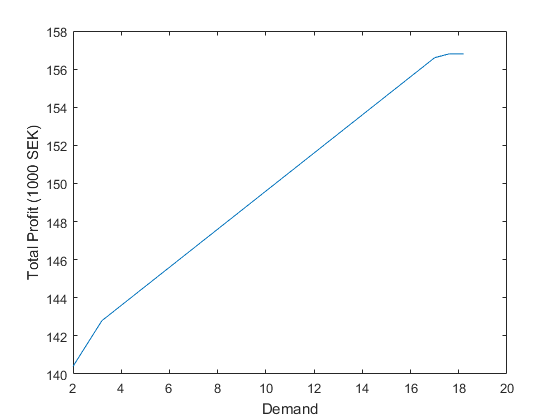
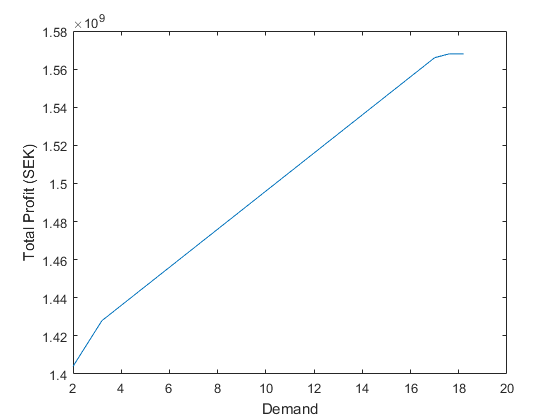
RestructuredCodeIntoSeparateFiles

diff --git a/Task1AllSubtasks.m b/Task1AllSubtasks.m
@@ -38,7 +38,7 @@ A = [2 0 0 0 0;
 %options = optimoptions('linprog', 'Algorithm', 'interior-point', 'Display', 'off');
 %options = optimoptions('linprog', 'Algorithm', 'dual-simplex', 'Display', 'iter');
 options = optimoptions('linprog', 'Algorithm', 'dual-simplex', 'Display', 'off');
-[x,fval,exitflag,output,lambda] = linprog(c', A, b, [], [], lb, [], [], options);
+[x,fval,exitflag,output,lambda_1b] = linprog(c', A, b, [], [], lb, [], [], options);
 x
 
 %--------------------------------
@@ -50,21 +50,24 @@ profit = -c*x
 
 profitArray = [profit];
 demandArray = [b(5)];
+shadowPriceArray = [20000];
  
  while true
     oldProfit = profit;
     
     b = b + b_incr;
     
-    [x,fval,exitflag,output,lambda] = linprog(c', A, b, [], [], lb, [], [], options);
+    [x,fval,exitflag,output,lambda_1d] = linprog(c', A, b, [], [], lb, [], [], options);
     profit = -c*x
     profitArray=[profitArray profit];
     demandArray=[demandArray b(5)];
+    shadowPriceArray=[shadowPriceArray lambda_1d.ineqlin(5)];
     if((profit-oldProfit) < 0.1), break, end
  end
-plot(demandArray, profitArray)
-ylabel('Total Profit (1000 SEK)')
+plot(demandArray, profitArray*1000*10000)
+ylabel('Total Profit (SEK)')
 xlabel('Demand')
+shadowPriceArray;
 
 %--------------------------------
 %1e------------------------------
@@ -78,7 +81,7 @@ b = [36;
      34;
      28]; %reset our b matrix, since we messed with that in 1d
   
-[x,fval,exitflag,output,lambda] = linprog(c', A, b, [], [], lb, [], [], options); %to reset our x values
+[x,fval,exitflag,output,lambda_1ea] = linprog(c', A, b, [], [], lb, [], [], options); %to reset our x values
 startC = c; %values to reset to for the beta loop
 startX = x; %values to reset to for the beta loop
 
@@ -92,7 +95,7 @@ beta = 4;
 while true
     c = c - [price_incr 0 0 0 0];
     alfa = alfa + price_incr;
-    [x,fval,exitflag,output,lambda] = linprog(c', A, b, [], [], lb, [], [], options);
+    [x,fval,exitflag,output,lambda_1ea] = linprog(c', A, b, [], [], lb, [], [], options);
     if(isequal(oldX, x) == false), break, end
     oldX = x;
 end
@@ -104,9 +107,9 @@ c = startC;
 while true
     c = c + [price_incr 0 0 0 0];
     beta = beta - price_incr;
-    [x,fval,exitflag,output,lambda] = linprog(c', A, b, [], [], lb, [], [], options);
+    [x,fval,exitflag,output,lambda_1eb] = linprog(c', A, b, [], [], lb, [], [], options);
     if(isequal(oldX, x) == false), break, end
-    %if(beta > 10), break, end %can be used to break loop when beta gets way too big
+    if(beta > 10), break, end %can be used to break otherwise infinite loop
     oldX = x;
 end
 beta %upper bound

diff --git a/Task2b.m b/Task2b.m
@@ -1,0 +1,55 @@
+clc
+clear all
+
+c = [-1;
+     -5];
+A = [2 -1;
+     -1 1;
+     1 4];
+ b = [4;
+      1;
+      12];
+ lb = [0;
+       0];
+ %options = optimoptions('intlinprog', 'Display', 'iter');
+ options = optimoptions('intlinprog', 'Display', 'off');
+ intcon = [1;
+           2];
+[x, fval, exitflag, output] = intlinprog(c', intcon, A, b, [], [], lb, [], options)
+
+z=(-c)'*x;
+
+%Just to test our manually calculated solutions to Task2b using Matlab code
+%as well
+options_l = optimoptions('linprog', 'Algorithm', 'dual-simplex', 'Display', 'off');
+[x_l,fval_l,exitflag_l,output_l,lambda_l] = linprog(c', A, b, [], [], lb, [], [], options_l);
+x_l_rounded = round(x_l);
+z_l=(-c).*x_l;
+
+x_l_collection = [];
+z_l_collection = [];
+for i = 1:4
+    if(i == 1)
+        x_l_rounded = [floor(x_l(1)), floor(x_l(2))];
+    elseif (i==2)
+        x_l_rounded = [ceil(x_l(1)), ceil(x_l(2))];
+    elseif (i==3)
+        x_l_rounded = [ceil(x_l(1)), floor(x_l(2))];
+    else
+        x_l_rounded = [floor(x_l(1)), ceil(x_l(2))];
+    end
+    xMulA = x_l_rounded .* A
+    xMulASummed = sum(xMulA, 2)
+    
+    satisfiesEquation = true;
+    for j = 1:3
+        if(xMulASummed(j) > b(j))
+            satisfiesEquation = false;
+        end
+    end
+    if(satisfiesEquation == true)
+        x_l_collection=[x_l_collection x_l_rounded];
+        z_l_collection=[z_l_collection ((-c(1))*x_l_rounded(1) + (-c(2))*x_l_rounded(2))];
+    end
+end
+%See x_l_collection and z_l_collection for seeing which answer we got

diff --git a/Task2AllSubtasks.m b/Task2AllSubtasks.m
@@ -1,0 +1,54 @@
+clc
+clear all
+
+c = [-1;
+     -5];
+A = [2 -1;
+     -1 1;
+     1 4];
+ b = [4;
+      1;
+      12];
+ lb = [0;
+       0];
+ %options = optimoptions('intlinprog', 'Display', 'iter');
+ options = optimoptions('intlinprog', 'Display', 'off');
+ intcon = [1;
+           2];
+[x, fval, exitflag, output] = intlinprog(c', intcon, A, b, [], [], lb, [], options)
+
+z=(-c)'*x;
+
+%2.b
+options_l = optimoptions('linprog', 'Algorithm', 'dual-simplex', 'Display', 'off');
+[x_l,fval_l,exitflag_l,output_l,lambda_l] = linprog(c', A, b, [], [], lb, [], [], options_l);
+x_l_rounded = round(x_l);
+z_l=(-c).*x_l;
+
+x_l_collection = [];
+z_l_collection = [];
+for i = 1:4
+    if(i == 1)
+        x_l_rounded = [floor(x_l(1)), floor(x_l(2))];
+    elseif (i==2)
+        x_l_rounded = [ceil(x_l(1)), ceil(x_l(2))];
+    elseif (i==3)
+        x_l_rounded = [ceil(x_l(1)), floor(x_l(2))];
+    else
+        x_l_rounded = [floor(x_l(1)), ceil(x_l(2))];
+    end
+    xMulA = x_l_rounded .* A
+    xMulASummed = sum(xMulA, 2)
+    
+    satisfiesEquation = true;
+    for j = 1:3
+        if(xMulASummed(j) > b(j))
+            satisfiesEquation = false;
+        end
+    end
+    if(satisfiesEquation == true)
+        x_l_collection=[x_l_collection x_l_rounded];
+        z_l_collection=[z_l_collection ((-c(1))*x_l_rounded(1) + (-c(2))*x_l_rounded(2))];
+    end
+end
+%See x_l_collection and z_l_collection for seeing which answer we got

diff --git a/Task1e.m b/Task1e.m
@@ -1,0 +1,57 @@
+clc
+clear all
+
+c = [-4 -3 -2 -2 -1];
+
+A = [2 0 0 0 0;
+     0 2 2 2 1;
+     0.2 1 0 0.5 0;
+     1 0 0 0 0;
+     0 0 1 0 0;
+     1 1 1 0 0;
+     0 0 0 1 1
+     ];
+ 
+b = [36;
+     216;
+     18;
+     16;
+     2;
+     34;
+     28];
+  
+lb = zeros(5, 1);
+ 
+options = optimoptions('linprog', 'Algorithm', 'dual-simplex', 'Display', 'off');
+[x,fval,exitflag,output,lambda_1ea] = linprog(c', A, b, [], [], lb, [], [], options); %to reset our x values
+startC = c; %values to reset to for the beta loop
+startX = x; %values to reset to for the beta loop
+
+%Now let's start with the actual task 1e
+oldX = x;
+price_incr = -0.01;
+alfa = 4;
+beta = 4;
+
+%let's find the lower interval bound
+while true
+    c = c - [price_incr 0 0 0 0];
+    alfa = alfa + price_incr;
+    [x,fval,exitflag,output,lambda_1ea] = linprog(c', A, b, [], [], lb, [], [], options);
+    if(isequal(oldX, x) == false), break, end
+    oldX = x;
+end
+alfa %lower bound
+
+%let's find the upper interval bound
+x = startX;
+c = startC;
+while true
+    c = c + [price_incr 0 0 0 0];
+    beta = beta - price_incr;
+    [x,fval,exitflag,output,lambda_1eb] = linprog(c', A, b, [], [], lb, [], [], options);
+    if(isequal(oldX, x) == false), break, end
+    if(beta > 10), break, end %can be used to break otherwise infinite loop
+    oldX = x;
+end
+beta %upper bound

diff --git a/Task1d.m b/Task1d.m
@@ -1,0 +1,57 @@
+clc
+clear all
+
+c = [-4 -3 -2 -2 -1];
+
+A = [2 0 0 0 0;
+     0 2 2 2 1;
+     0.2 1 0 0.5 0;
+     1 0 0 0 0;
+     0 0 1 0 0;
+     1 1 1 0 0;
+     0 0 0 1 1
+     ];
+ 
+ b = [36;
+      216;
+      18;
+      16;
+      2;
+      34;
+      28];
+  
+ b_incr = [0;
+           0;
+           0;
+           0;
+           0.6;
+           0;
+           0];
+  
+ lb = zeros(5, 1);
+ 
+options = optimoptions('linprog', 'Algorithm', 'dual-simplex', 'Display', 'off');
+[x,fval,exitflag,output,lambda_1b] = linprog(c', A, b, [], [], lb, [], [], options);
+ 
+oldProfit = 0;
+profit = -c*x
+
+profitArray = [profit];
+demandArray = [b(5)];
+shadowPriceArray = [20000];
+ 
+ while true
+    oldProfit = profit;
+    
+    b = b + b_incr;
+    
+    [x,fval,exitflag,output,lambda_1d] = linprog(c', A, b, [], [], lb, [], [], options);
+    profit = -c*x
+    profitArray=[profitArray profit];
+    demandArray=[demandArray b(5)];
+    shadowPriceArray=[shadowPriceArray lambda_1d.ineqlin(5)];
+    if((profit-oldProfit) < 0.1), break, end
+ end
+plot(demandArray, profitArray*1000*10000)
+ylabel('Total Profit (SEK)')
+xlabel('Demand')

diff --git a/Task2a.m b/Task2a.m
@@ -6,9 +6,9 @@ c = [-1;
 A = [2 -1;
      -1 1;
      1 4];
- b = [double(intmax);
-      double(intmax);
-      double(intmax)];
+ b = [4;
+      1;
+      12];
  lb = [0;
        0];
  %options = optimoptions('intlinprog', 'Display', 'iter');
@@ -17,9 +17,4 @@ A = [2 -1;
            2];
 [x, fval, exitflag, output] = intlinprog(c', intcon, A, b, [], [], lb, [], options)
 
-z=(-c).*x;
-
-%2.b
-options_l = optimoptions('linprog', 'Algorithm', 'dual-simplex', 'Display', 'off');
-[x_l,fval_l,exitflag_l,output_l,lambda_l] = linprog(c', A, b, [], [], lb, [], [], options_l);
-z_l=(-c).*x_l;
+z=(-c)'*x;

diff --git a/Task1b.m b/Task1b.m
@@ -1,0 +1,26 @@
+clc
+clear all
+
+c = [-4 -3 -2 -2 -1];
+
+A = [2 0 0 0 0;
+     0 2 2 2 1;
+     0.2 1 0 0.5 0;
+     1 0 0 0 0;
+     0 0 1 0 0;
+     1 1 1 0 0;
+     0 0 0 1 1
+     ];
+ 
+b = [36;
+     216;
+     18;
+     16;
+     2;
+     34;
+     28];
+  
+lb = zeros(5, 1);
+ 
+options = optimoptions('linprog', 'Algorithm', 'dual-simplex', 'Display', 'off');
+[x,fval,exitflag,output,lambda_1b] = linprog(c', A, b, [], [], lb, [], [], options);
